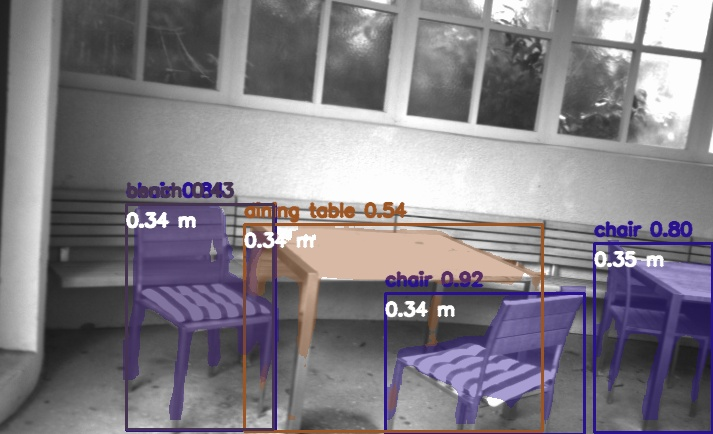
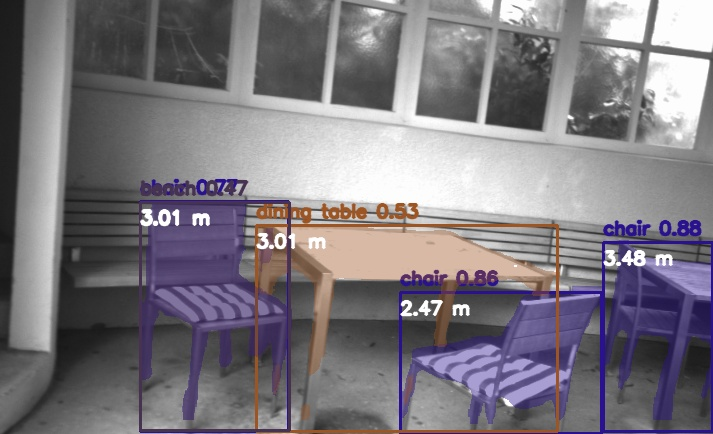
preprocessing added

diff --git a/preprocess_bw.py b/preprocess_bw.py
@@ -1,0 +1,85 @@
+import argparse
+from pathlib import Path
+
+import cv2
+
+
+VALID_EXTS = {".jpg", ".jpeg", ".png", ".bmp", ".tif", ".tiff", ".webp"}
+
+
+def to_grayscale(image_path: Path, output_path: Path):
+    image = cv2.imread(str(image_path))
+    if image is None:
+        print(f"[skip] Could not read: {image_path}")
+        return False
+
+    gray = cv2.cvtColor(image, cv2.COLOR_BGR2GRAY)
+    output_path.parent.mkdir(parents=True, exist_ok=True)
+    cv2.imwrite(str(output_path), gray)
+    print(f"[ok] {image_path} -> {output_path}")
+    return True
+
+
+def process_single(input_path: Path, output_path: Path):
+    if output_path.suffix == "":
+        output_path = output_path / f"{input_path.stem}_bw{input_path.suffix}"
+    return to_grayscale(input_path, output_path)
+
+
+def process_directory(input_dir: Path, output_dir: Path):
+    output_dir.mkdir(parents=True, exist_ok=True)
+    converted = 0
+    skipped = 0
+
+    for path in input_dir.rglob("*"):
+        if not path.is_file():
+            continue
+        if path.suffix.lower() not in VALID_EXTS:
+            continue
+
+        rel = path.relative_to(input_dir)
+        out = output_dir / rel
+        if to_grayscale(path, out):
+            converted += 1
+        else:
+            skipped += 1
+
+    print(f"\nDone. Converted: {converted}, Skipped: {skipped}")
+
+
+def build_parser():
+    parser = argparse.ArgumentParser(
+        description="Convert image(s) to black-and-white (grayscale)."
+    )
+    parser.add_argument(
+        "--input",
+        required=True,
+        help="Input image file path or input directory path.",
+    )
+    parser.add_argument(
+        "--output",
+        required=True,
+        help=(
+            "Output file or directory. "
+            "If input is a file and output is a directory, filename gets '_bw' suffix."
+        ),
+    )
+    return parser
+
+
+def main():
+    args = build_parser().parse_args()
+    input_path = Path(args.input.strip().strip('"').strip("'")).expanduser().resolve()
+    output_path = Path(args.output.strip().strip('"').strip("'")).expanduser().resolve()
+
+    if not input_path.exists():
+        raise FileNotFoundError(f"Input path does not exist: {input_path}")
+
+    if input_path.is_file():
+        process_single(input_path, output_path)
+    else:
+        process_directory(input_path, output_path)
+
+
+if __name__ == "__main__":
+    main()

diff --git a/yolo_depth_detection.py b/yolo_depth_detection.py
@@ -6,8 +6,8 @@ import numpy as np
 from ultralytics import YOLO
 
 # Hardcoded stereo calibration defaults from your dataset
-DEFAULT_FOCAL_PX = 711.499
-DEFAULT_BASELINE_M = 0.0599432
+DEFAULT_FOCAL_PX = 900 #711.499
+DEFAULT_BASELINE_M =  0.05 #0.072000 #0.0599432
 
 
 def resolve_existing_path(raw_path: str) -> Path:
